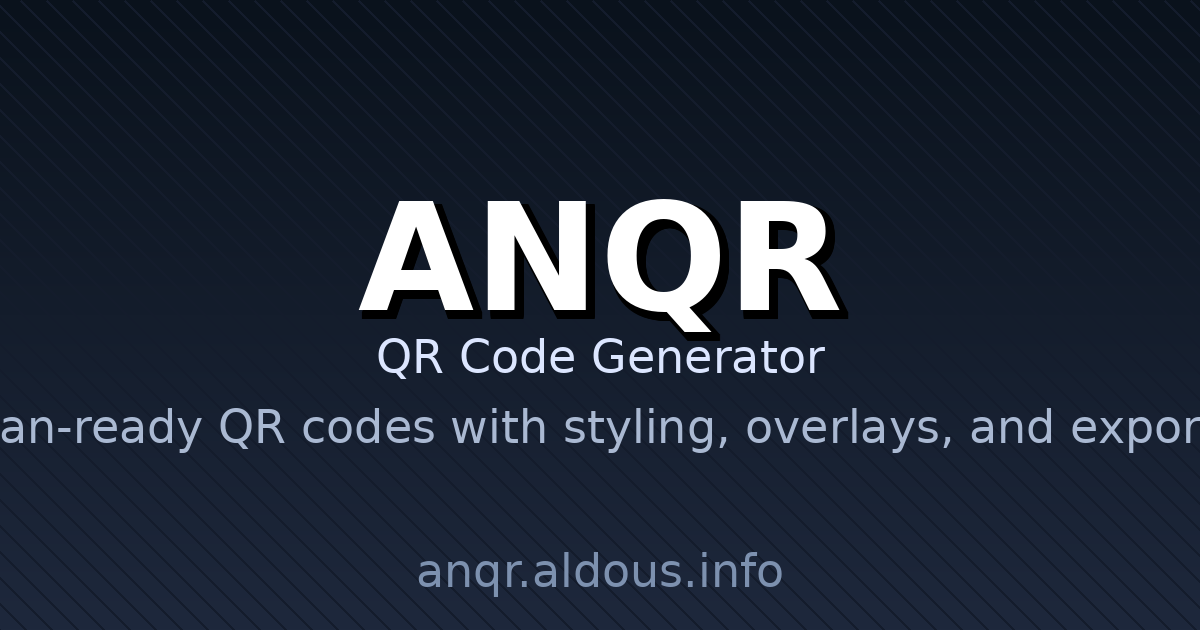
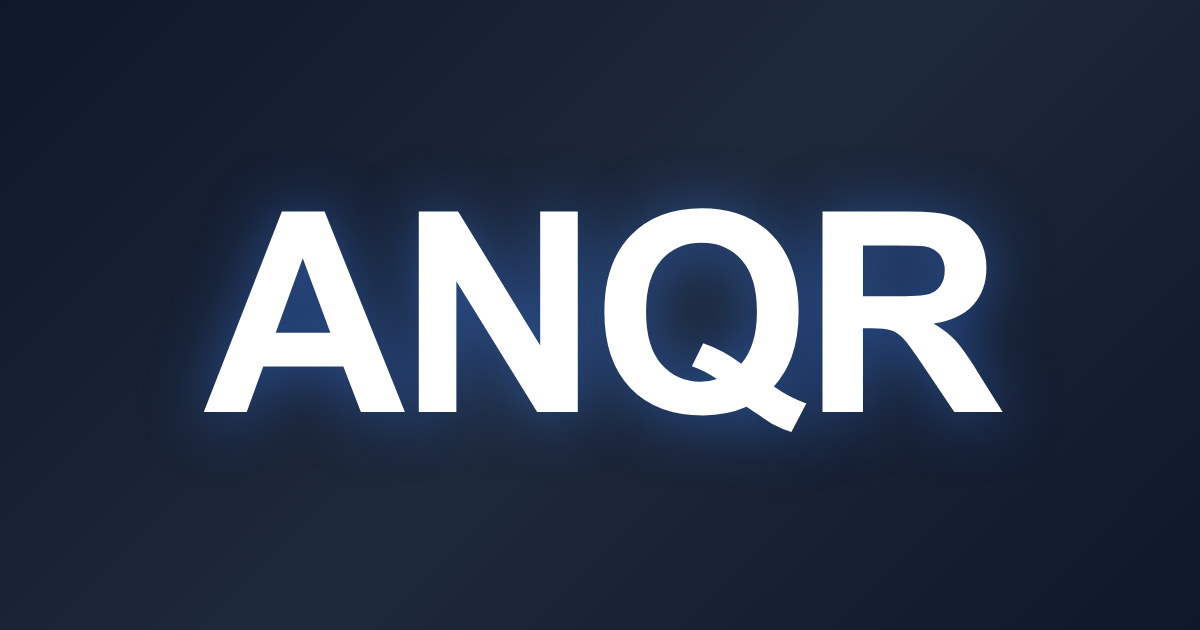
1766752349

diff --git a/public/og-image.html b/public/og-image.html
@@ -1,44 +1,38 @@
 <!DOCTYPE html>
-<html>
+<html lang="en">
 <head>
-  <meta charset="UTF-8">
-  <style>
-    * {
-      margin: 0;
-      padding: 0;
-      box-sizing: border-box;
-    }
-    body {
-      width: 1200px;
-      height: 630px;
-      display: flex;
-      align-items: center;
-      justify-content: center;
-      background: linear-gradient(135deg, #0f172a 0%, #1e293b 50%, #0f172a 100%);
-      font-family: -apple-system, BlinkMacSystemFont, 'Segoe UI', Roboto, 'Helvetica Neue', Arial, sans-serif;
-    }
-    .container {
-      text-align: center;
-    }
-    .title {
-      font-size: 280px;
-      font-weight: 800;
-      color: white;
-      letter-spacing: -8px;
-      text-shadow: 0 4px 60px rgba(59, 130, 246, 0.5);
-    }
-    .subtitle {
-      font-size: 36px;
-      color: #94a3b8;
-      margin-top: -20px;
-      letter-spacing: 8px;
-      text-transform: uppercase;
-    }
-  </style>
+  <meta charset="UTF-8" />
+  <meta name="viewport" content="width=1200,height=630,initial-scale=1" />
+<style>
+  * { margin: 0; padding: 0; box-sizing: border-box; }
+
+  html, body {
+    width: 1200px;
+    height: 630px;
+    overflow: hidden;
+    background: linear-gradient(135deg, #0f172a 0%, #1e293b 50%, #0f172a 100%);
+    font-family: -apple-system, BlinkMacSystemFont, "Segoe UI", Roboto, "Helvetica Neue", Arial, sans-serif;
+  }
+
+  body {
+    display: flex;
+    align-items: center;
+    justify-content: center;
+  }
+
+  .container { text-align: center; }
+
+  .title {
+    font-size: 280px;
+    font-weight: 800;
+    color: #fff;
+    letter-spacing: -8px;
+    text-shadow: 0 4px 60px rgba(59, 130, 246, 0.5);
+  }
+</style>
 </head>
 <body>
-  <div class="container">
-    <div class="title">ANQR</div>
-  </div>
+  <div class="title">ANQR</div>
 </body>
 </html>
+
